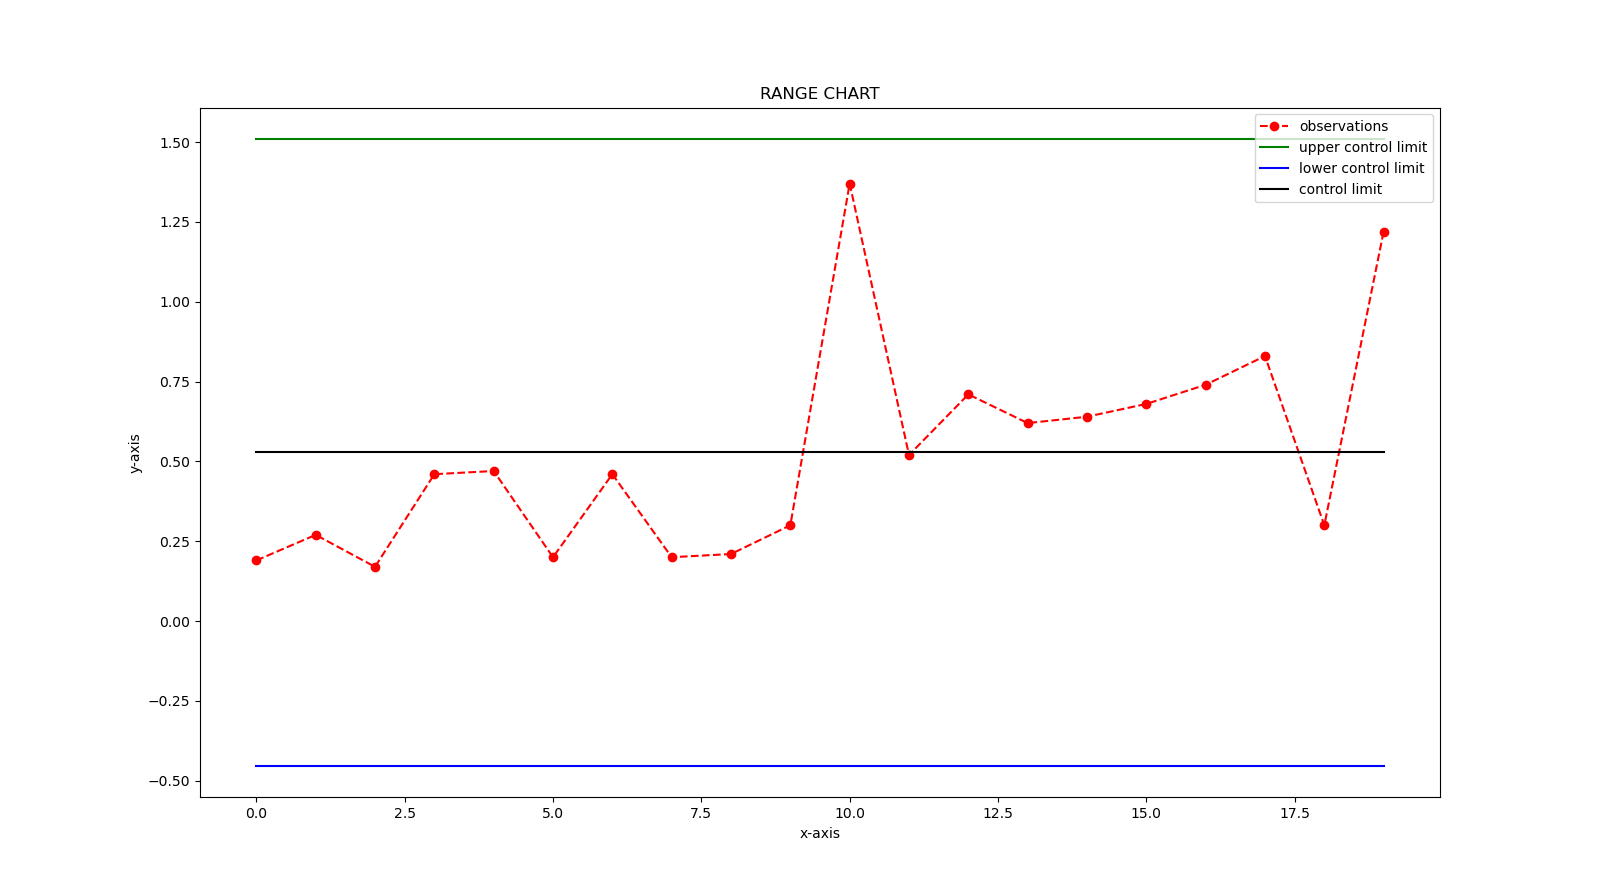
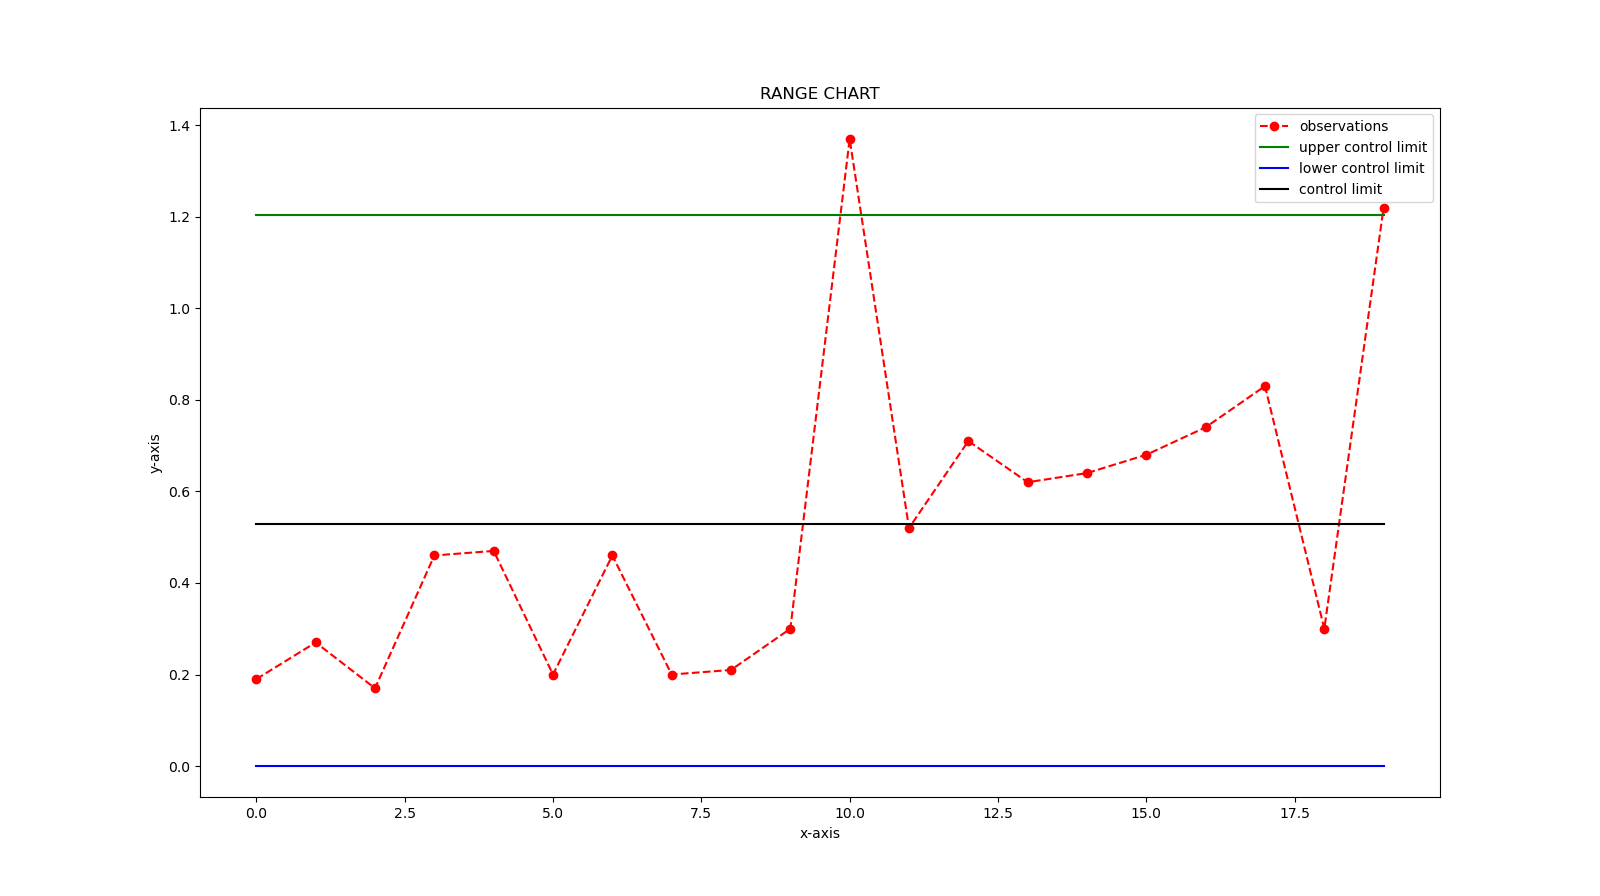
added table values, updated code

diff --git a/quality_control.py b/quality_control.py
@@ -5,8 +5,19 @@ import matplotlib.pyplot as plt
 import numpy as np
 
 df = pd.read_excel("data.xlsx")
+table_df = pd.read_excel("table_values.xlsx")
 print(df)
+print(table_df)
 count_row = df.shape[0]
+count_col = df.shape[1]-1
+print("No.of Observations: ",count_col)
+A2 = table_df.iloc[count_col-2,1]
+D3 = table_df.iloc[count_col-2,2]
+D4 = table_df.iloc[count_col-2,3]
+print("VALUE OF A2: ",A2)
+print("VALUE OF D3: ",D3)
+print("VALUE OF D4: ",D4)
+
 mean_ls=[]
 range_ls=[]
 for i in range(count_row):
@@ -20,13 +31,22 @@ range_str_rounded_ls = [ '%.5f' % elem for elem in range_ls ]
 integer_mapp = map(float,range_str_rounded_ls)
 range_rounded_ls = list(integer_mapp)
 meanchart_control_limit = round(mean(mean_rounded_ls),5)
+print("\nMEAN-CHART CONTROL LIMIT: ",meanchart_control_limit)
 rangechart_control_limit = round(mean(range_rounded_ls),5)
+print("\nRANGE-CHART CONTROL LIMIT: ",rangechart_control_limit)
+
 m_sd = statistics.pstdev(mean_rounded_ls)
-m_upper_control_limit = meanchart_control_limit + 3*m_sd
-m_lower_control_limit = meanchart_control_limit - 3*m_sd
+m_upper_control_limit = meanchart_control_limit + A2*rangechart_control_limit
+m_lower_control_limit = meanchart_control_limit - A2*rangechart_control_limit
+print("\nMEAN-CHART UPPER CONTROL LIMIT: ",m_upper_control_limit)
+print("MEAN-CHART LOWER CONTROL LIMIT: ",m_lower_control_limit)
+
 r_sd = statistics.pstdev(range_rounded_ls)
-r_upper_control_limit = rangechart_control_limit + 3*r_sd
-r_lower_control_limit = rangechart_control_limit - 3*r_sd
+r_upper_control_limit = D4*rangechart_control_limit
+r_lower_control_limit = D3*rangechart_control_limit
+print("\nRANGE-CHART UPPER CONTROL LIMIT: ",r_upper_control_limit)
+print("RANGE-CHART LOWER CONTROL LIMIT: ",r_lower_control_limit)
+
 m_arr = np.array(mean_rounded_ls)
 m_uc_arr = np.ones(len(mean_rounded_ls))*m_upper_control_limit
 m_lc_arr = np.ones(len(mean_rounded_ls))*m_lower_control_limit
